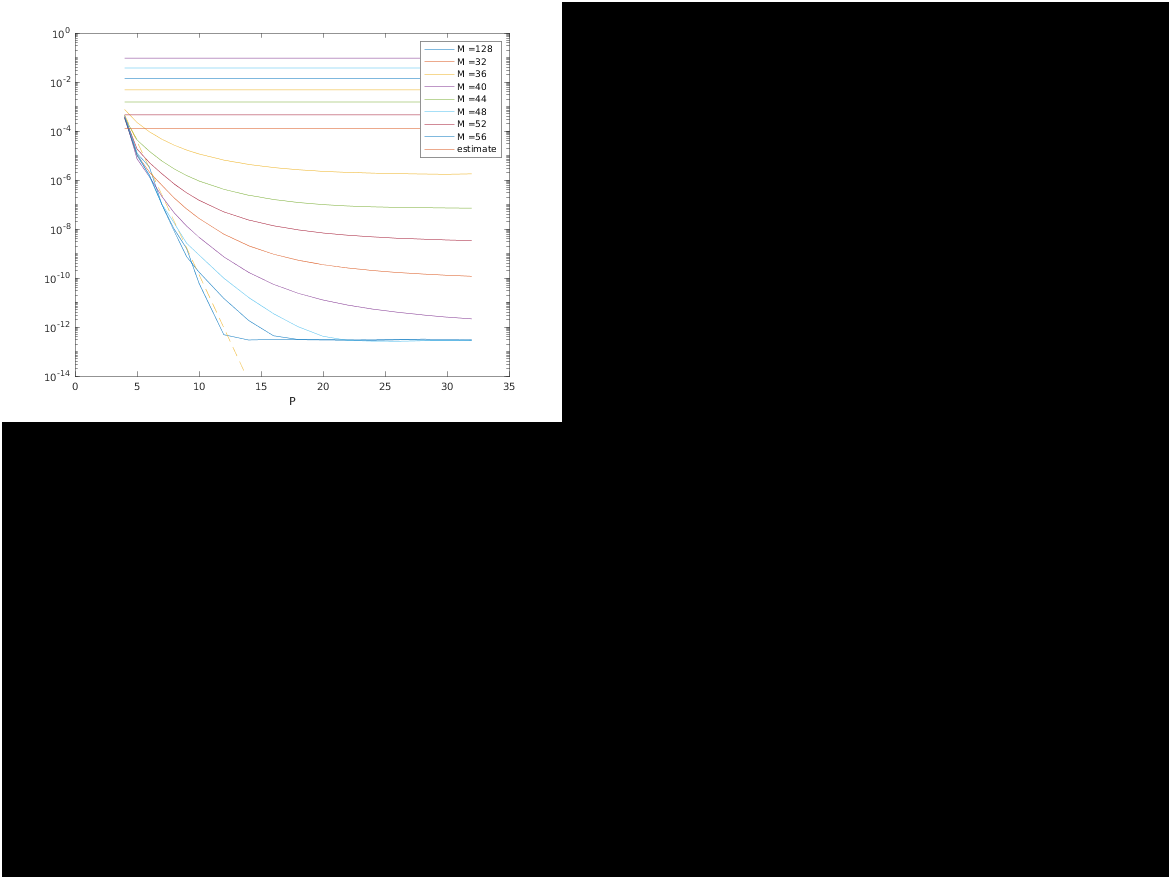
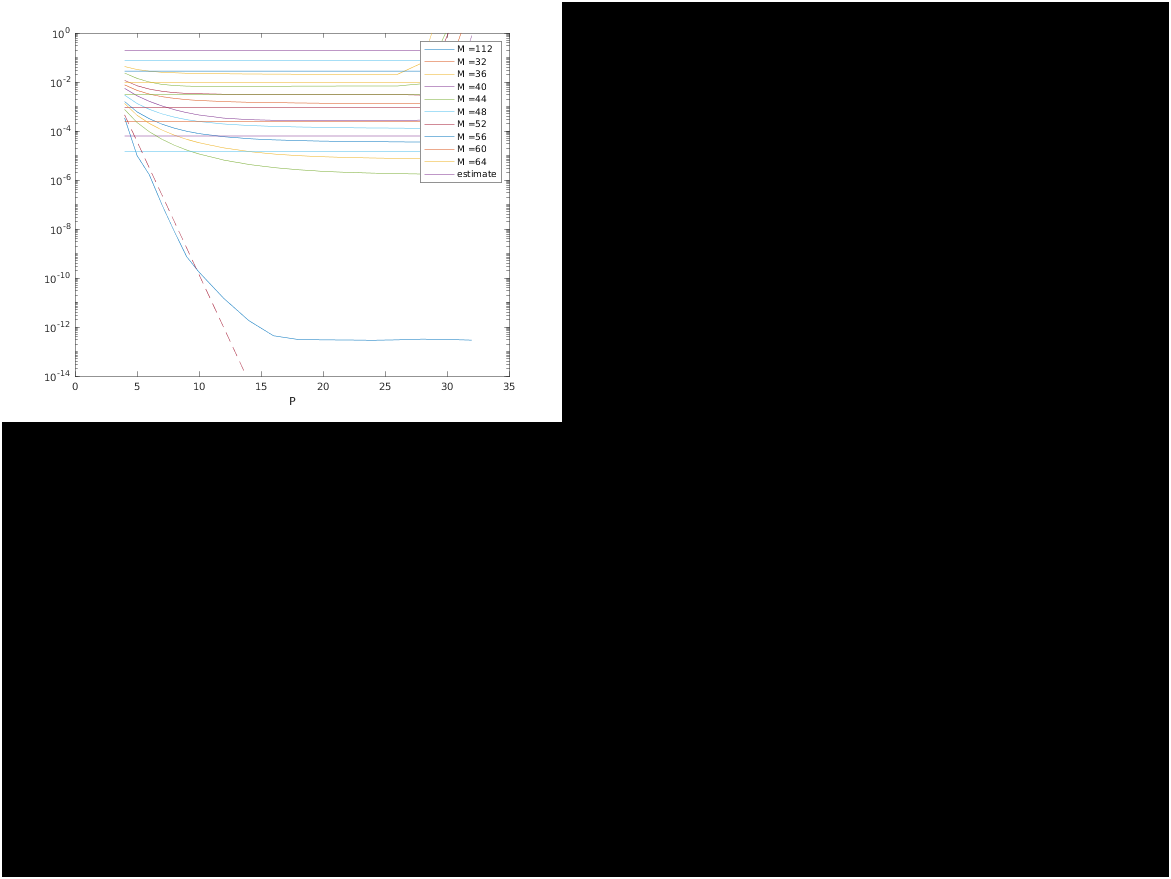
imgs

Changed region(s): [[0.0922, 0.0614, 0.4304, 0.2457], [0.1537, 0.2457, 0.1845, 0.3072]]

diff --git a/SE_Stokes_run/SE3P_Stokes/P_error.m b/SE_Stokes_run/SE3P_Stokes/P_error.m
@@ -8,7 +8,7 @@ N = 10; % number of source particles
 
 
 %% Parameter selection
-L = 2; % box side length
+L = 1; % box side length
 box = [L L L]; % periodic box
 opt.box = box;
 
@@ -17,7 +17,7 @@ opt.box = box;
 
 M0 = 128; % Set M0=M/L, the restu * 1+ is automatic
 opt.M = M0*opt.box;
-opt.xi = 15;
+opt.xi = 30;
 opt.betaP = 2.5;
 %opt.window = 'kaiser_exact';
 opt.window = 'kaiser_exact';
@@ -40,12 +40,12 @@ end
 	%opt.window = 'gaussian';
 %ref = SE3P_Stokes(1:N,x,f,opt);
 %% Compare solutions with changing P
-MM = 32:4:56;
+MM = 32:4:64;
 str = {};
 est = @(M,xi,L,f) sqrt(f)*(xi^3*L^2/(pi^4*(M/2)^(3/2)))*exp(-(pi*(M/2)/(xi*L))^2);
 e_vec = [];
 F = sum(norm(f.^2));
-for M = [128 MM]
+for M = [112 MM]
 	opt.M = M*[L,L,L];
 	PP = [4:1:10,10:2:32];
 	rms_err = [];
